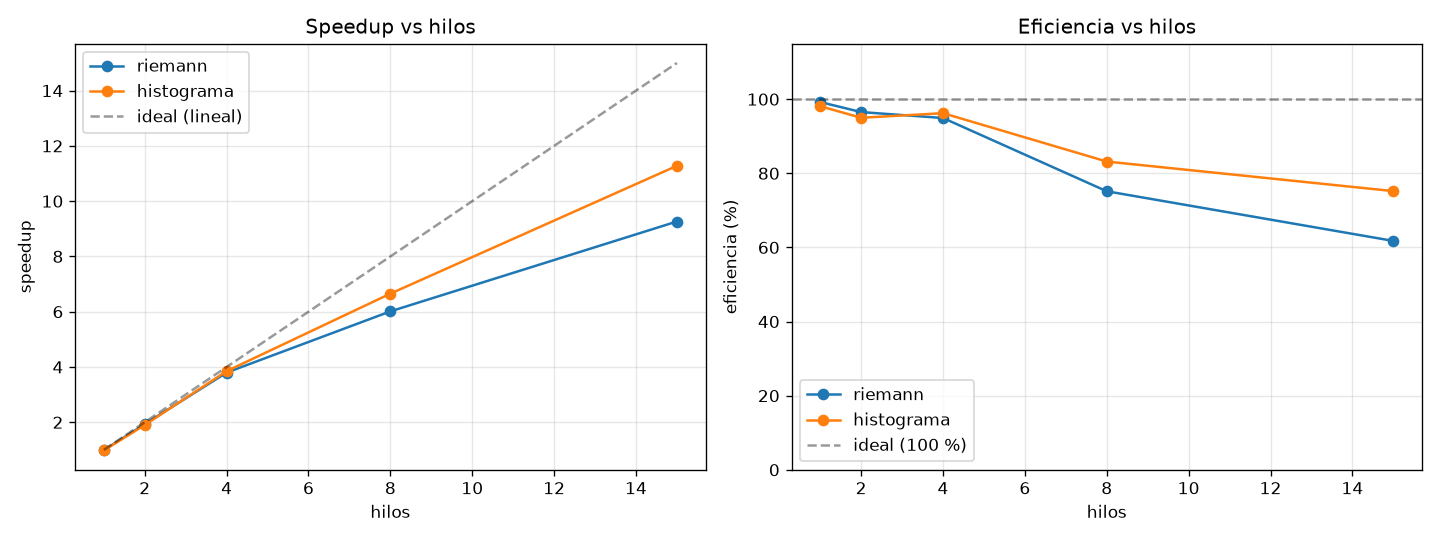
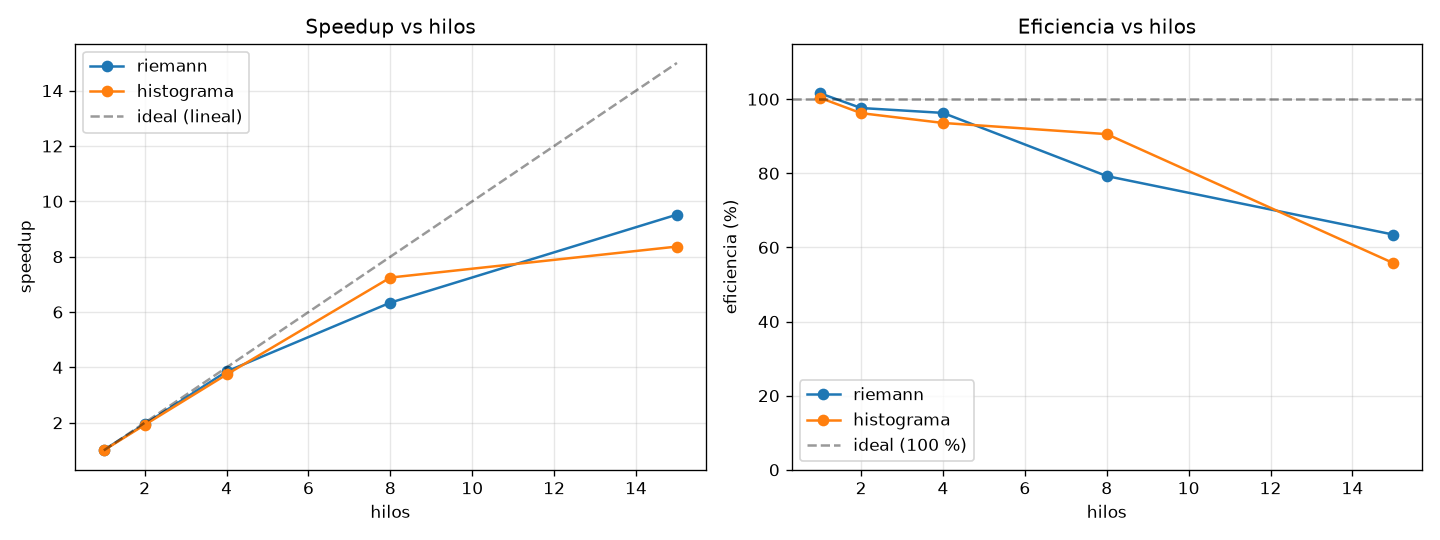
feat: updating results by console photo

diff --git a/docs/resultados_Ernesto.md b/docs/resultados_Ernesto.md
@@ -2,24 +2,24 @@
 
 Mediana de 3 corridas · `Speedup = T_sec / T_p` · `Eficiencia = Speedup / p`
 
-## Riemann — T secuencial = 3.6810 s
+## Riemann — T secuencial = 3.6528 s
 
 | Hilos | T (s) | Speedup | Eficiencia |
 |------:|------:|--------:|-----------:|
-| 1 (sec) | 3.6810 | 1.00× | 100 % |
-| 1 | 3.7096 | 0.99× | 99 % |
-| 2 | 1.9068 | 1.93× | 97 % |
-| 4 | 0.9695 | 3.80× | 95 % |
-| 8 | 0.6122 | 6.01× | 75 % |
-| 15 | 0.3973 | 9.26× | 62 % |
+| 1 (sec) | 3.6528 | 1.00× | 100 % |
+| 1 | 3.5962 | 1.02× | 102 % |
+| 2 | 1.8710 | 1.95× | 98 % |
+| 4 | 0.9483 | 3.85× | 96 % |
+| 8 | 0.5761 | 6.34× | 79 % |
+| 15 | 0.3837 | 9.52× | 63 % |
 
-## Histograma — T secuencial = 0.2824 s
+## Histograma — T secuencial = 0.2770 s
 
 | Hilos | T (s) | Speedup | Eficiencia |
 |------:|------:|--------:|-----------:|
-| 1 (sec) | 0.2824 | 1.00× | 100 % |
-| 1 | 0.2878 | 0.98× | 98 % |
-| 2 | 0.1486 | 1.90× | 95 % |
-| 4 | 0.0734 | 3.85× | 96 % |
-| 8 | 0.0424 | 6.65× | 83 % |
-| 15 | 0.0250 | 11.28× | 75 % |
+| 1 (sec) | 0.2770 | 1.00× | 100 % |
+| 1 | 0.2761 | 1.00× | 100 % |
+| 2 | 0.1439 | 1.92× | 96 % |
+| 4 | 0.0740 | 3.74× | 94 % |
+| 8 | 0.0382 | 7.25× | 91 % |
+| 15 | 0.0331 | 8.37× | 56 % |

diff --git a/README.md b/README.md
@@ -148,7 +148,8 @@ péguenla aquí abajo junto con la gráfica y el screenshot de consola.
 ### 6.1 Ernesto Ascencio (23009)
 
 - **Máquina:** 15 núcleos · macOS · GCC 16 · Riemann n=10⁹, histograma N=5·10⁷
-- **Datos:** [`resultados_Ernesto.md`](docs/img/Ernesto_metricas.png)
+
+![Consola Ernesto](docs/img/Ernesto_consola.png)
 
 ![métricas Ernesto](docs/img/Ernesto_metricas.png)
 
